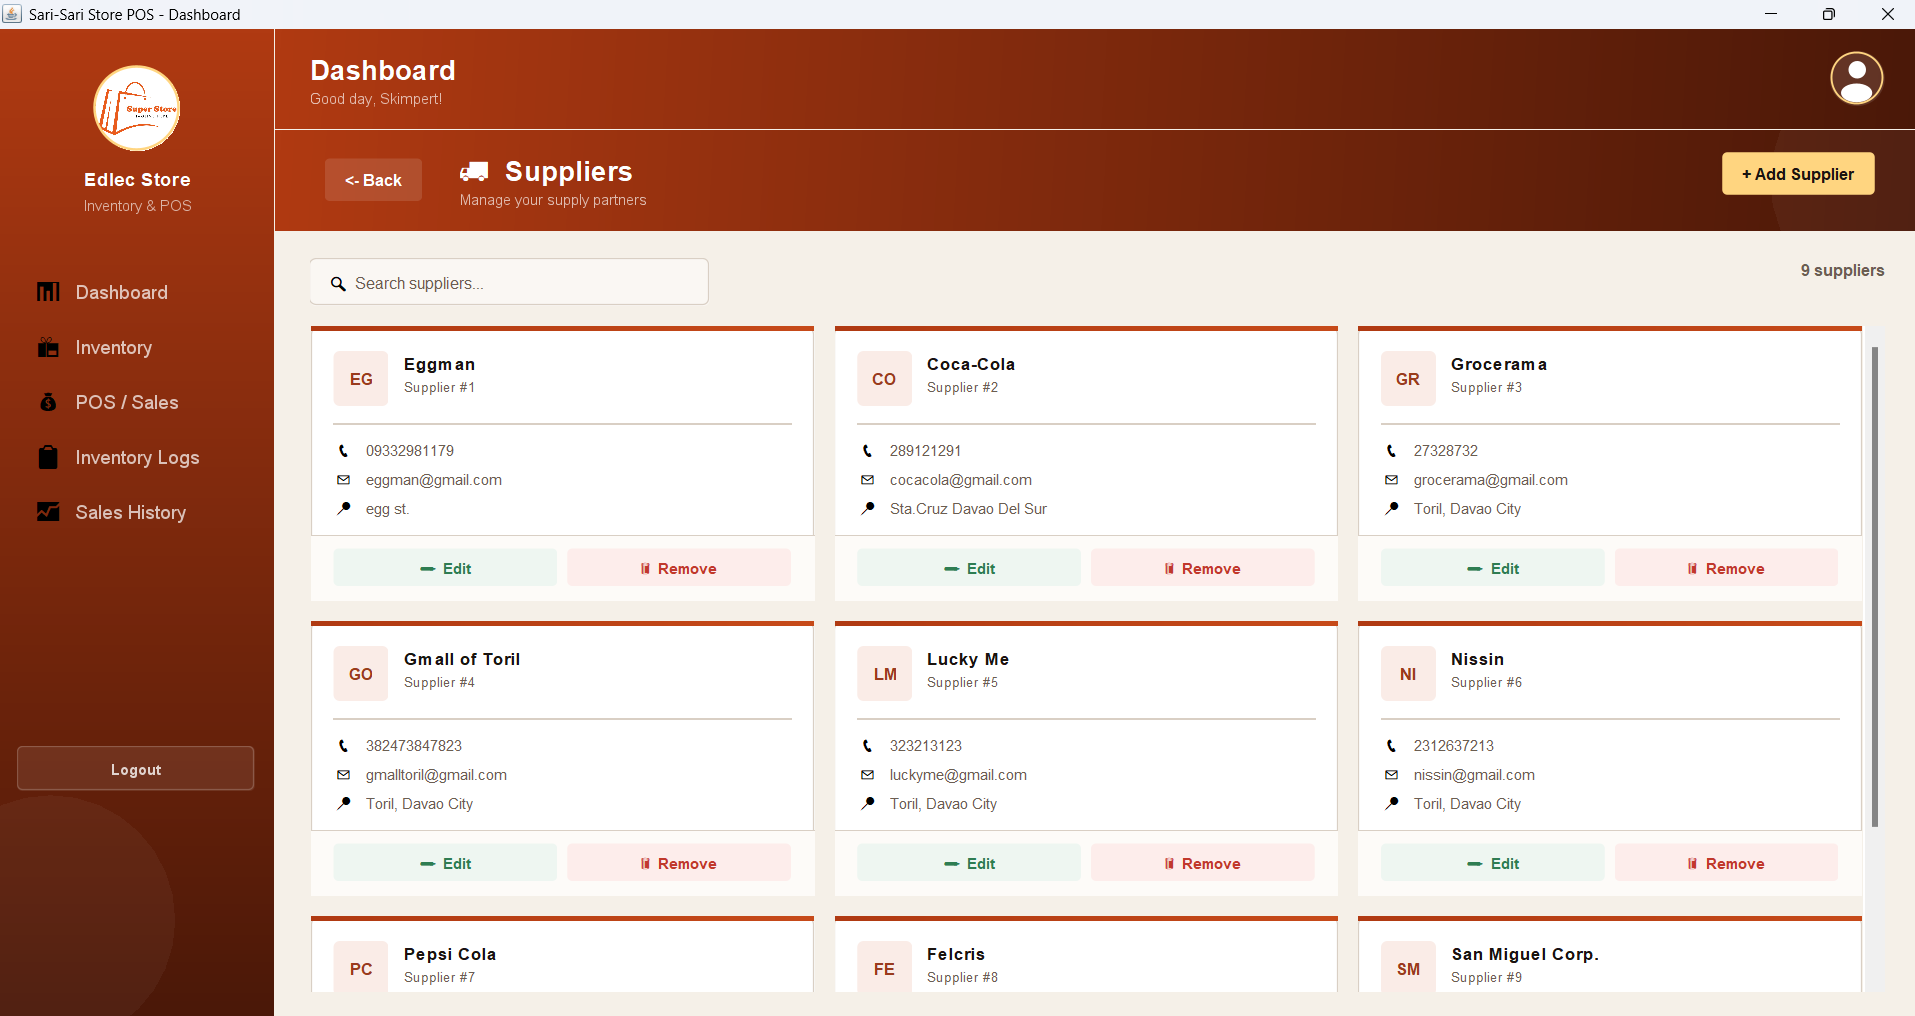
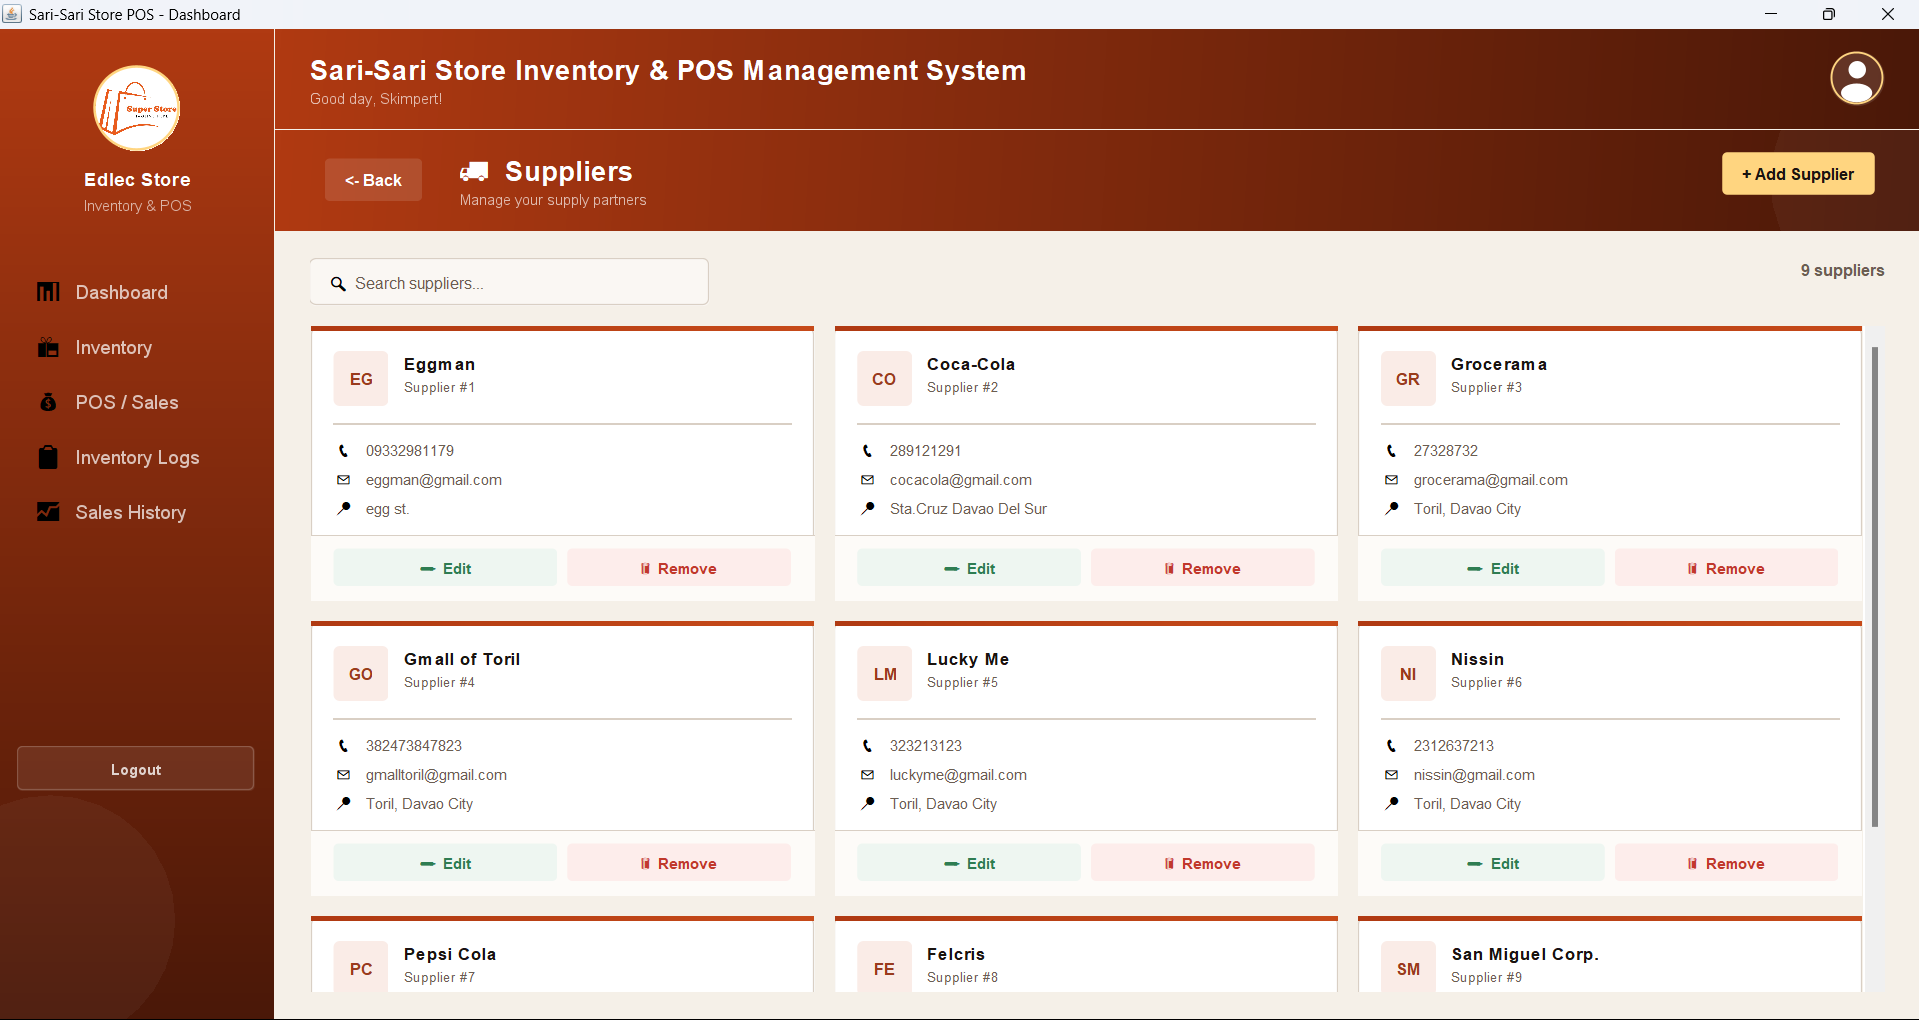
Change images

diff --git a/src/view/DashboardFrame.java b/src/view/DashboardFrame.java
@@ -364,7 +364,7 @@ public class DashboardFrame extends JFrame {
         topBar.setOpaque(false);
         topBar.setBorder(new EmptyBorder(18, 28, 18, 28));
 
-        JLabel pageTitle = new JLabel("Dashboard");
+        JLabel pageTitle = new JLabel("Sari-Sari Store Inventory & POS Management System");
         pageTitle.setFont(FONT_TITLE);
         pageTitle.setForeground(Color.WHITE);
 
